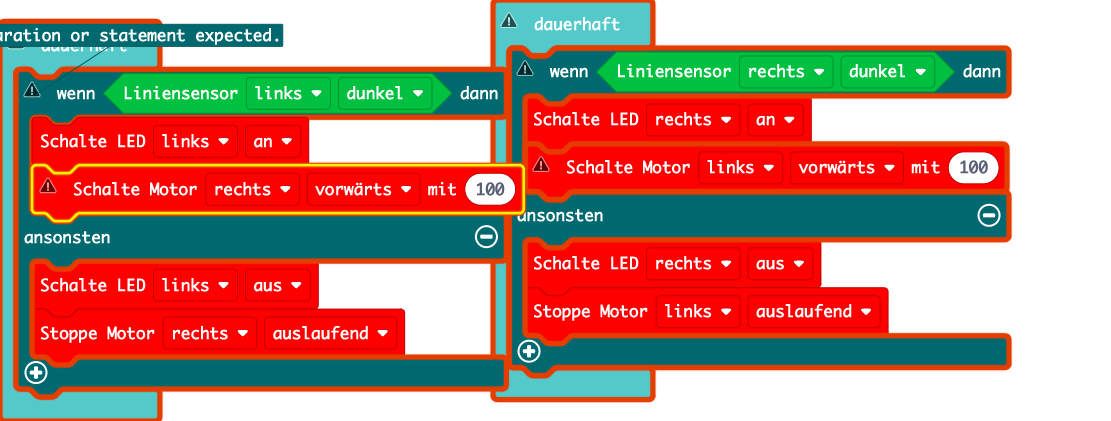
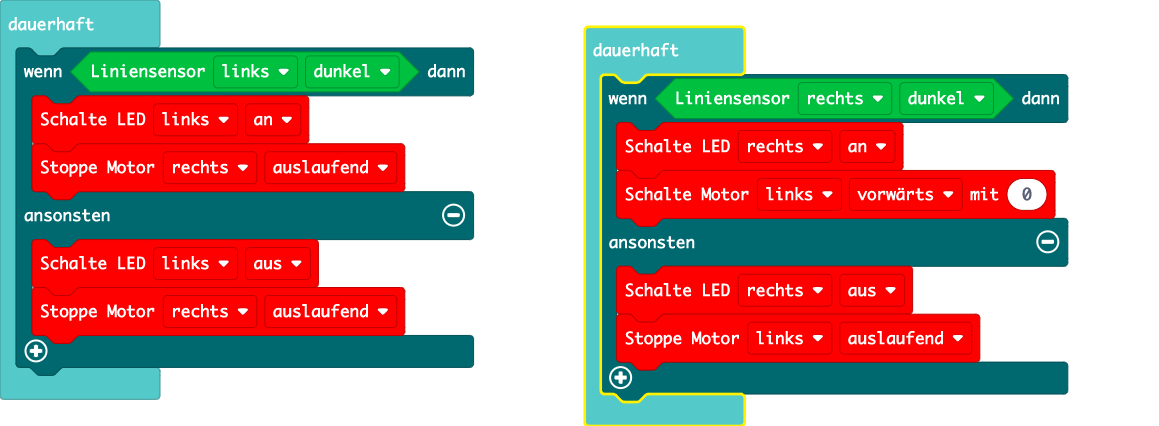
Aktualisiere main.blocks, main.ts

diff --git a/main.ts b/main.ts
@@ -1,7 +1,7 @@
 basic.forever(function () {
     if (callibot.readLineSensor(KSensor.links, KSensorStatus.dunkel)) {
         callibot.setLed(KMotor.links, KState.an)
-        callibot.motor(KMotor.rechts, KDir.vorw&#228;rts, 100)
+        callibot.motorStop(KMotor.rechts, KStop.Frei)
     } else {
         callibot.setLed(KMotor.links, KState.aus)
         callibot.motorStop(KMotor.rechts, KStop.Frei)
@@ -10,7 +10,7 @@ basic.forever(function () {
 basic.forever(function () {
     if (callibot.readLineSensor(KSensor.rechts, KSensorStatus.dunkel)) {
         callibot.setLed(KMotor.rechts, KState.an)
-        callibot.motor(KMotor.links, KDir.vorw&#228;rts, 100)
+        callibot.motor(KMotor.links, KDir.vorwärts, 0)
     } else {
         callibot.setLed(KMotor.rechts, KState.aus)
         callibot.motorStop(KMotor.links, KStop.Frei)
